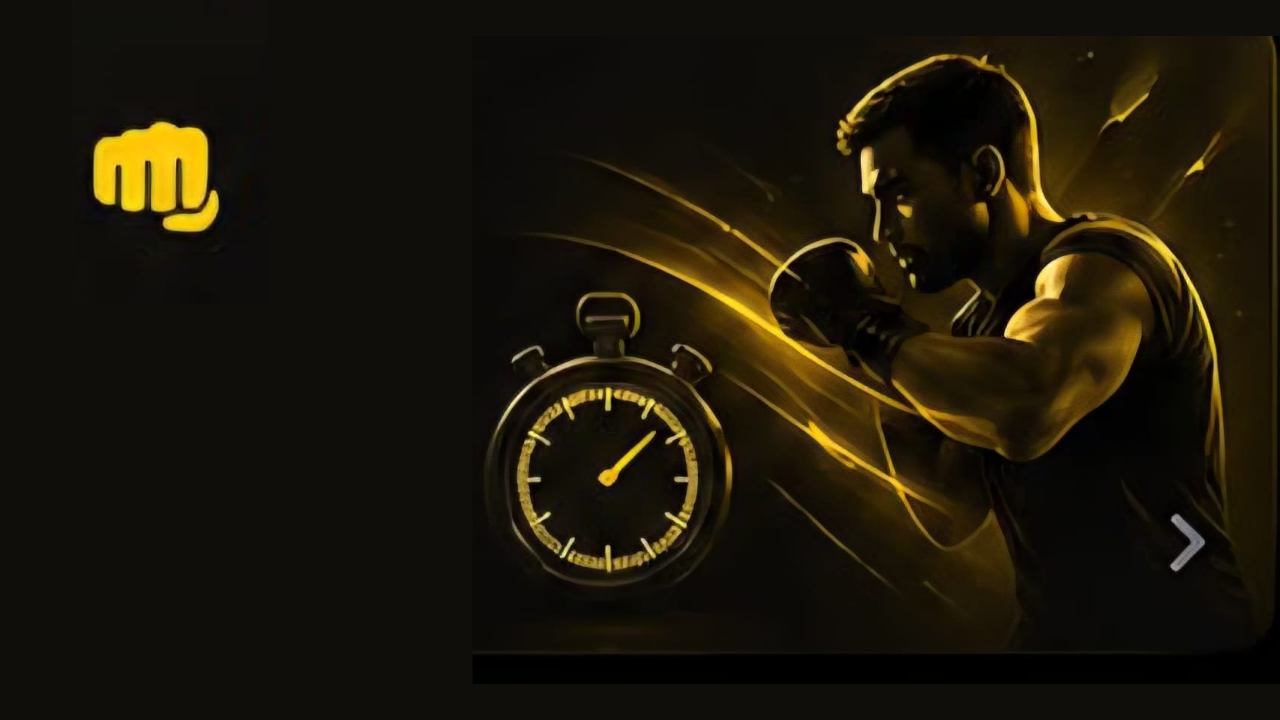
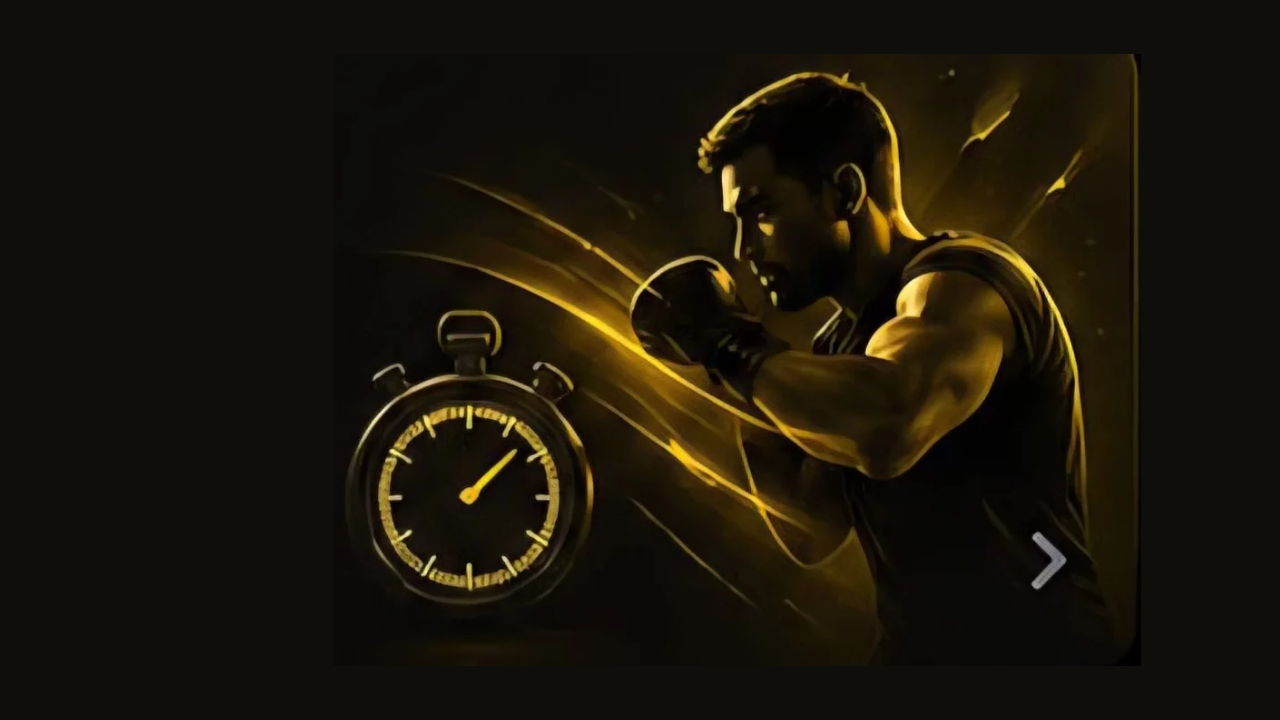
Fix iconos metricas blend-mode y tarjetas con nuevas imagenes v8

diff --git a/index.html b/index.html
@@ -163,7 +163,7 @@
             <span class="hmc-record-val" id="card-rec-reaction" style="color:#00D4FF">—</span>
           </div>
         </div>
-        <div class="hmc-right" style="background-image:url('assets/card-reaccion.png')">
+        <div class="hmc-right hmc-img-reaction">
           <span class="hmc-arrow">›</span>
         </div>
       </button>
@@ -188,7 +188,7 @@
             <span class="hmc-record-val" id="card-rec-power" style="color:#00FF66">—</span>
           </div>
         </div>
-        <div class="hmc-right" style="background-image:url('assets/card-potencia.png')">
+        <div class="hmc-right hmc-img-power">
           <span class="hmc-arrow">›</span>
         </div>
       </button>
@@ -212,7 +212,7 @@
             <span class="hmc-record-val" id="card-rec-combo" style="color:#FFD300">—</span>
           </div>
         </div>
-        <div class="hmc-right" style="background-image:url('assets/card-combo.png')">
+        <div class="hmc-right hmc-img-combo">
           <span class="hmc-arrow">›</span>
         </div>
       </button>
@@ -238,7 +238,7 @@
             <span class="hmc-record-val" id="card-rec-colors" style="color:#9B59B6">—</span>
           </div>
         </div>
-        <div class="hmc-right" style="background-image:url('assets/card-colores.png')">
+        <div class="hmc-right hmc-img-colors">
           <span class="hmc-arrow">›</span>
         </div>
       </button>

diff --git a/style.css b/style.css
@@ -2554,6 +2554,16 @@ canvas {
   margin-bottom: 4px;
   width: 40px;
   height: 40px;
+  background: transparent;
+}
+
+.home-metric-icon-wrap img {
+  width: 40px;
+  height: 40px;
+  object-fit: contain;
+  mix-blend-mode: screen;
+  background: transparent;
+  display: block;
 }
 
 .home-metric-label {
@@ -2685,9 +2695,9 @@ canvas {
 .hmc-right {
   flex: 1;
   position: relative;
-  background-size: cover;
-  background-position: center top;
-  background-repeat: no-repeat;
+  background-size: cover !important;
+  background-position: center right !important;
+  background-repeat: no-repeat !important;
   overflow: hidden;
 }
 
@@ -2695,9 +2705,15 @@ canvas {
   content: '';
   position: absolute;
   inset: 0;
-  background: linear-gradient(to right, #0A0A0A 0%, rgba(10,10,10,0.55) 50%, transparent 100%);
+  background: linear-gradient(to right, #0A0A0A 30%, rgba(10,10,10,0.3) 100%);
   z-index: 1;
 }
+
+/* ── Imágenes de cada tarjeta de modo ── */
+.hmc-img-reaction { background-image: url('assets/card-reaccion.png') !important; }
+.hmc-img-power    { background-image: url('assets/card-potencia.png') !important; }
+.hmc-img-combo    { background-image: url('assets/card-combo.png')    !important; }
+.hmc-img-colors   { background-image: url('assets/card-colores.png')  !important; }
 
 .hmc-arrow {
   position: absolute;

diff --git a/sw.js b/sw.js
@@ -1,4 +1,4 @@
-const CACHE_NAME = 'impactlab-v7';
+const CACHE_NAME = 'impactlab-v8';
 const ASSETS = [
   './',
   './index.html',
